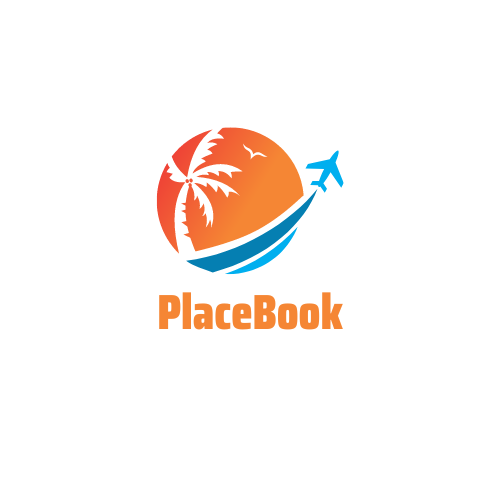
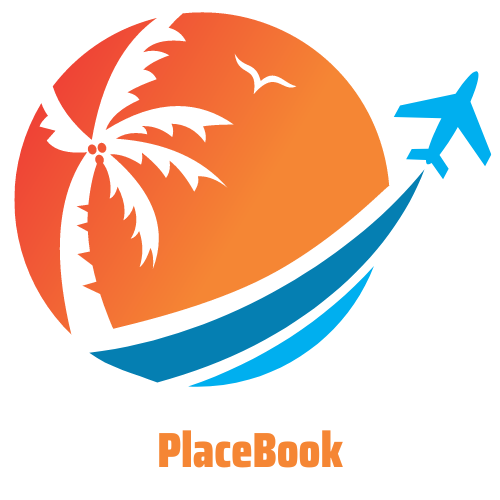
styled homepage

diff --git a/client/src/App.css b/client/src/App.css
@@ -3,17 +3,27 @@
 }
 
 .App-logo {
-  height: 110vmin;
+  height: 80vmin;
   pointer-events: none;
   display:block;
-  margin-left:auto;
-  margin-right:auto;
+  margin-left:400px;
 }
 
-.homeTitle {
+.homeTextLeft {
   font-family: cursive;
+  font-size:45px;
+  text-align: left;
+}
+
+.homeTextCenter {
+  font-family: cursive;
+  font-size:38px;
   text-align: center;
-  margin-top: 30px;
+}
+
+.homeBody {
+  background-image: url('./components/Images/home-background2.webp') !important;
+    background-size: cover !important;
 }
 
 @media (prefers-reduced-motion: no-preference) {

diff --git a/client/src/pages/Home.js b/client/src/pages/Home.js
@@ -3,9 +3,10 @@ import '../App.css';
 
 export default function Home() {
   return (
-    <div style={{ backgroundImage: 'url(./components/Images/home-background.jpeg)' }}>
-      <h2 className="homeTitle">Where Travelers Connect and Share</h2>
+    <div className="homeBody">
+      <h1 className="homeTextLeft">Where Travelers Connect and Share Their Journeys</h1>
       <img src={logo} alt="logo" className="App-logo" />
+      <h1 className="homeTextCenter">Wanderlust Social Media</h1>
     </div>
   );
 }
